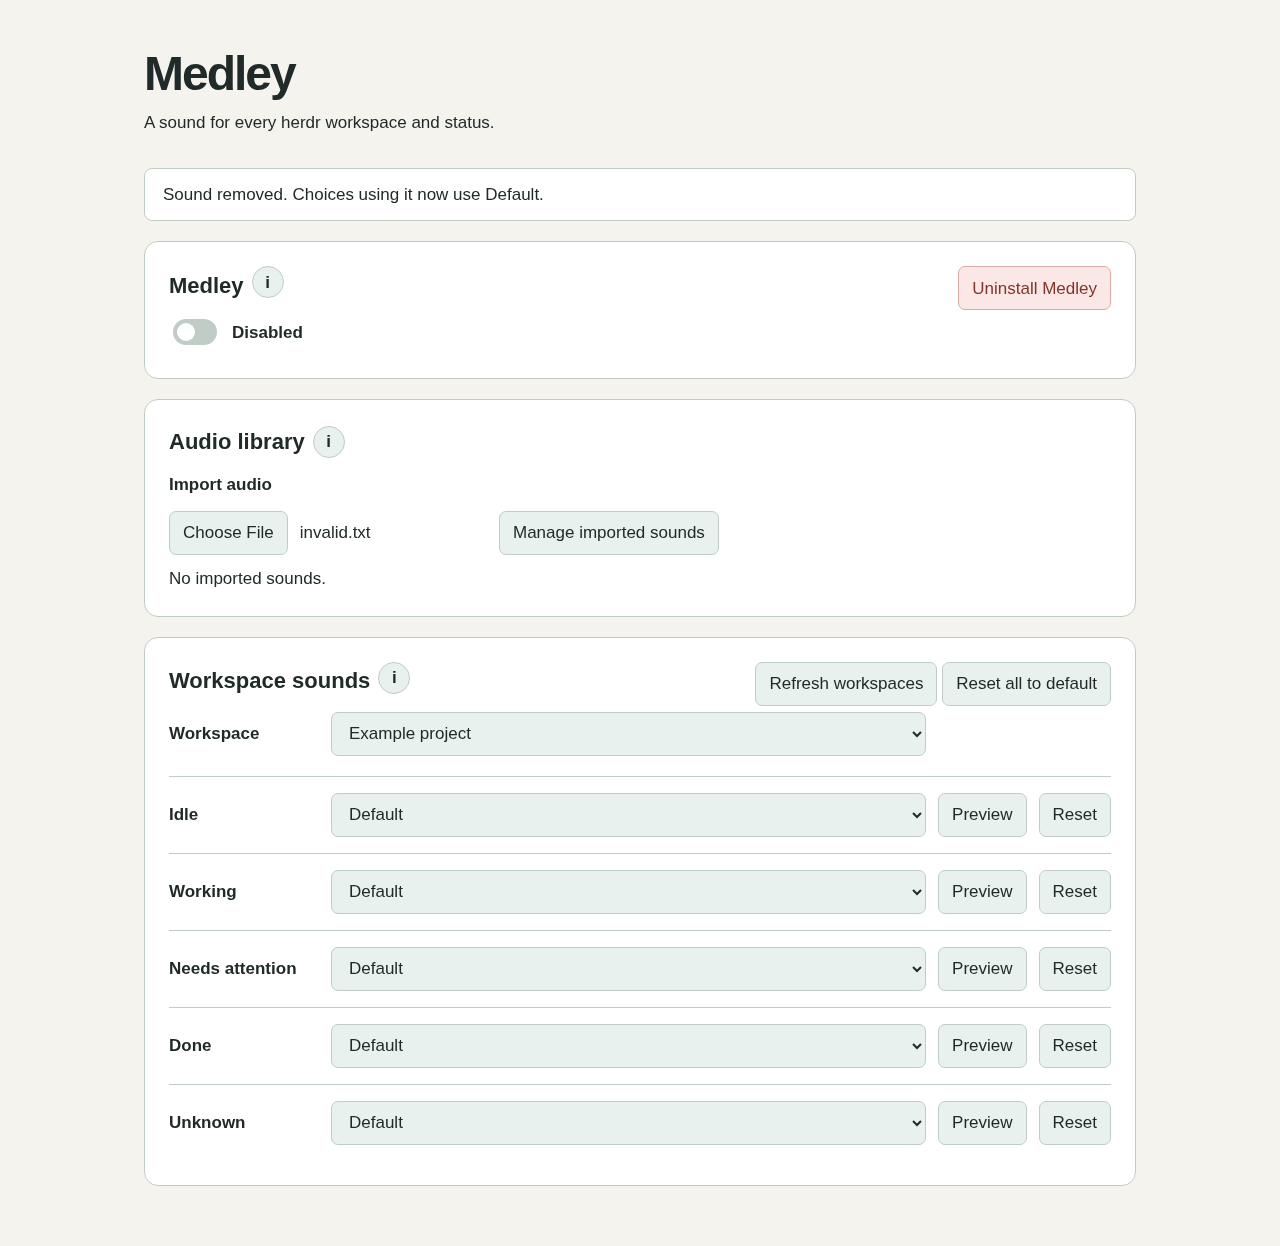
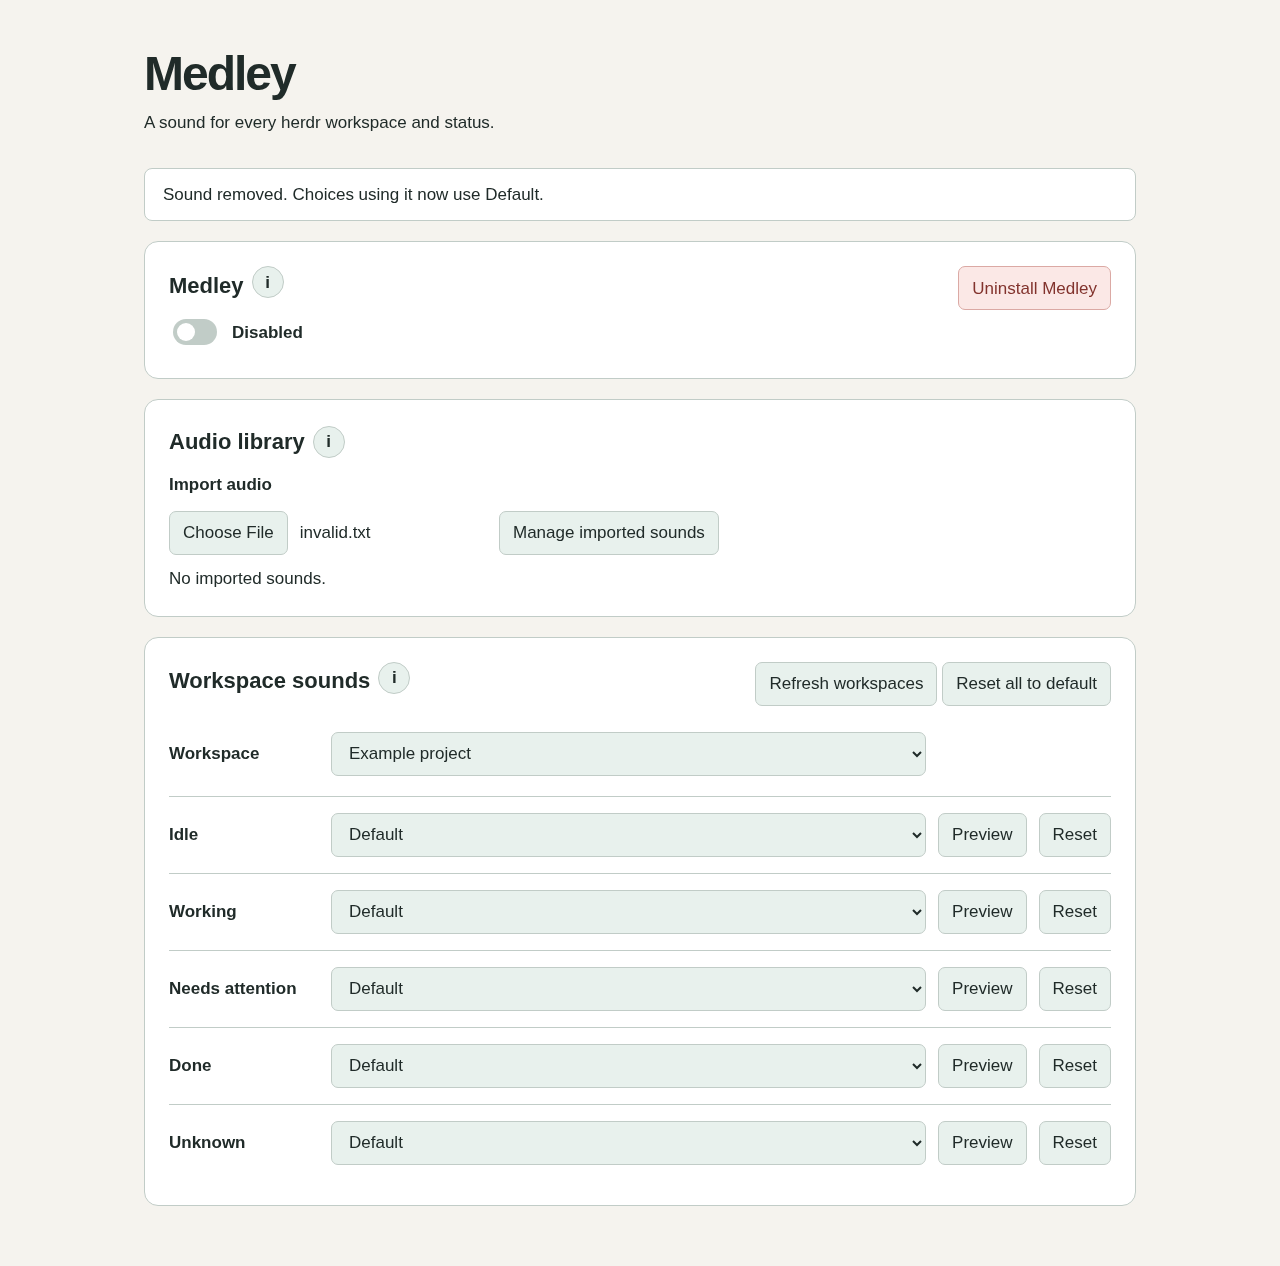
Restore space above workspace selector

diff --git a/assets/style.css b/assets/style.css
@@ -9,3 +9,4 @@
 
 .workspace-row{display:grid;grid-template-columns:150px minmax(160px,1fr) auto auto;align-items:center;gap:12px;padding:0 0 20px}.workspace-row label{margin:0}.workspace-row select{min-width:0;width:100%;grid-column:2/-1}@media(max-width:640px){.workspace-row{grid-template-columns:1fr}.workspace-row select{grid-column:1}}
 @media(min-width:641px){section[aria-labelledby=rules-heading]{display:grid;grid-template-columns:150px minmax(160px,1fr) auto auto;column-gap:12px}section[aria-labelledby=rules-heading]>.section-heading{grid-column:1/-1}#rules{display:contents}.rule,.workspace-row{grid-column:1/-1;grid-template-columns:subgrid}.workspace-row select{grid-column:2}}
+.workspace-row{padding-top:20px}

diff --git a/docs/validation.md b/docs/validation.md
@@ -255,3 +255,9 @@ including matching dropdown start/end edges. Native CSS subgrid keeps the action
 columns aligned without placeholder buttons. Mobile retains stacked labels/selects.
 Chromium functional, keyboard and mobile overflow checks passed; desktop synthetic
 capture visually inspected and refreshed with mobile/dark captures.
+
+## Workspace heading clearance — 2026-10-20
+
+Added 20 px top padding to the Workspace row so the heading/toolbar no longer
+crowds the dropdown. Shared column alignment retained. Chromium checks passed;
+refreshed desktop capture visually inspected, mobile overflow check passed.
